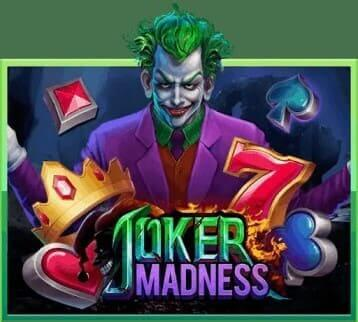
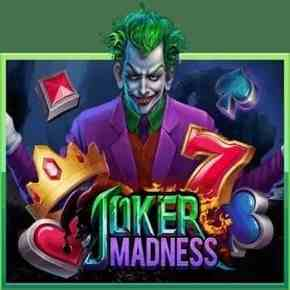
change image

diff --git a/src/main.js b/src/main.js
@@ -53,8 +53,7 @@ function Main() {
 
       <Carrousel_main />
       <div className="text-center mt-3">
-
-      <span className=" h1">PG SLOT ยินดีต้อนรับ</span>
+        <span className=" h1">PG SLOT ยินดีต้อนรับ</span>
       </div>
       <Jackpot />
       <div className="cylon_eye" />
@@ -78,7 +77,7 @@ function Main() {
           <ul className="navbar-nav font-weight-bolder list-group list-group-horizontal text-center">
             <li className="bg-gamelabel popup">
               <a-nav href="#">
-                <img className="img-box1 rounded-circle" src="img/gametest/pgslot1.png" onMouseOver={show1} onClick={show1} alt="PGSLOT" title="pg slot" />
+                <img className="img-box1 rounded-circle" src="img/gametest/pgslot1.jpg" onMouseOver={show1} onClick={show1} alt="PGSLOT" title="pg slot" />
               </a-nav>
             </li>
             <li className="bg-gamelabel popup">
@@ -107,7 +106,7 @@ function Main() {
               <div className="col-12 col-md-4 p-0 text-center">
                 <div id="game1">
                   <div className="container">
-                    <img src="img/gametest/pgslot1.png" className="rounded-circle blockgame" alt="watafak pgslot" title="สล็อตออนไลน์ฟรี" />
+                    <img src="img/gametest/pgslot1.jpg" className="rounded-circle blockgame" alt="watafak pgslot" title="สล็อตออนไลน์ฟรี" />
                   </div>
                   <div className="container m-2">
                     <a href="https://www.eagaming.com/en/games/ongbak.html?locale=en&redirectUrl=http%3A//www.eagaming.com/en/games.html" className="btn btn-bg1">
@@ -165,13 +164,26 @@ function Main() {
       {/* Articleslide */}
       <div className="container mt-3">
         <div className="row">
-          <div id="articleslide" className="carousel slide" data-ride="carousel" style={{ width: "100%" }}>
+          <div id="articleslide" className="carousel slide" data-ride="carousel" style={{ width: "100%", maxHeight:400 }}>
             <h1 className="float-left h1">บทความ PGSLOT</h1>
             <div className="carousel-inner d-block">
               <div className="carousel-item active">
                 <div className="row col-12 pl-2 pr-2">
                   <div className="col-6">
-                    <img src="img/article/roma_art.jpg" className="img-fluid" alt="pgslot" title="pgslot บทความ" style={{ width: "100%" }}></img>
+                    <img src="img/article/pg.png" className="img-fluid" alt="pgslot" title="pgslot บทความ" style={{ width: "100%" }} />
+                  </div>
+                  <div className="col-6">
+                    <p className="text-white-50 text-left">สล็อตออนไลน์ (Slot online) เกมส์ยิงปลาได้เงินจริง ลุ้นแจ็คพ๊อตทุกวันกับ WATAFAK88</p>
+                    <p onClick={article} id="ongbak" name="ongbak" className="text-white-50 text-left">
+                      อ่านต่อ &gt;&gt;
+                    </p>
+                  </div>
+                </div>
+              </div>
+              <div className="carousel-item">
+                <div className="row col-12 pl-2 pr-2">
+                  <div className="col-6">
+                    <img src="img/article/waysCover.jpg" className="img-fluid rounded-pill" alt="pgslot" title="pgslot บทความ" style={{ width: "100%" }}></img>
                   </div>
                   <div className="col-6">
                     <p className="text-white-50 text-left">สล็อตออนไลน์ (Slot online) เกมส์ยิงปลาได้เงินจริง ลุ้นแจ็คพ๊อตทุกวันกับ WATAFAK88</p>
@@ -185,25 +197,11 @@ function Main() {
               <div className="carousel-item">
                 <div className="row col-12 pl-2 pr-2">
                   <div className="col-6">
-                    <img src="img/article/fish_art.jpg" className="d-block" alt="pgslot" title="pgslot บทความ" style={{ width: "100%" }} />
+                    <img src="img/article/เกมยิงปลา.jpg" className="img-fluid rounded-pill" alt="pgslot" title="pgslot บทความ" style={{ width: "100%" }} />
                   </div>
                   <div className="col-6">
                     <p className="text-white-50 text-left">สล็อตออนไลน์ (Slot online) เกมส์ยิงปลาได้เงินจริง ลุ้นแจ็คพ๊อตทุกวันกับ WATAFAK88</p>
                     <p onClick={article} id="fish" name="fish" className="text-white-50 text-left">
-                      อ่านต่อ &gt;&gt;
-                    </p>
-                  </div>
-                </div>
-              </div>
-
-              <div className="carousel-item">
-                <div className="row col-12 pl-2 pr-2">
-                  <div className="col-6">
-                    <img src="img/article/pg.png" className="d-block" alt="pgslot" title="pgslot บทความ" style={{ width: "100%" }} />
-                  </div>
-                  <div className="col-6">
-                    <p className="text-white-50 text-left">สล็อตออนไลน์ (Slot online) เกมส์ยิงปลาได้เงินจริง ลุ้นแจ็คพ๊อตทุกวันกับ WATAFAK88</p>
-                    <p onClick={article} id="ongbak" name="ongbak" className="text-white-50 text-left">
                       อ่านต่อ &gt;&gt;
                     </p>
                   </div>
@@ -230,7 +228,8 @@ function Main() {
           <div className="row">
             <div className="col-lg-6">
               <h1 className="text-white text-left h1">
-                PGSLOT สล็อตออนไลน์ (Slot online) เกมส์ยิงปลา<br />
+                PGSLOT สล็อตออนไลน์ (Slot online) เกมส์ยิงปลา
+                <br />
               </h1>
 
               <h2 className="text-white-50 text-left">

diff --git a/src/article.js b/src/article.js
@@ -194,7 +194,7 @@ function article() {
       {/* ------------------------------- */}
       <div name="ongbak" className="jumbotron p-4 m-4 bg-art">
         <h1 className="h1">Ong Bak</h1>
-        <img src="img/article/ongbak-article1.png" className="img-fluid" alt="PG SLOT บทความ"></img>
+        <img src="img/article/pgslot1.png" className="img-fluid" alt="PG SLOT บทความ"></img>
         <p className="font-navmobile">Review Ong Bak เกมของ pgslot ที่นำมาให้บริการ เกมใหม่ มาในธีมแม่ไม้มวยไทยจากหนังเรื่ององค์บาก เล่นบนตารางขนาด 5×3 และ มี 30 Lines</p>
 
         <p>
